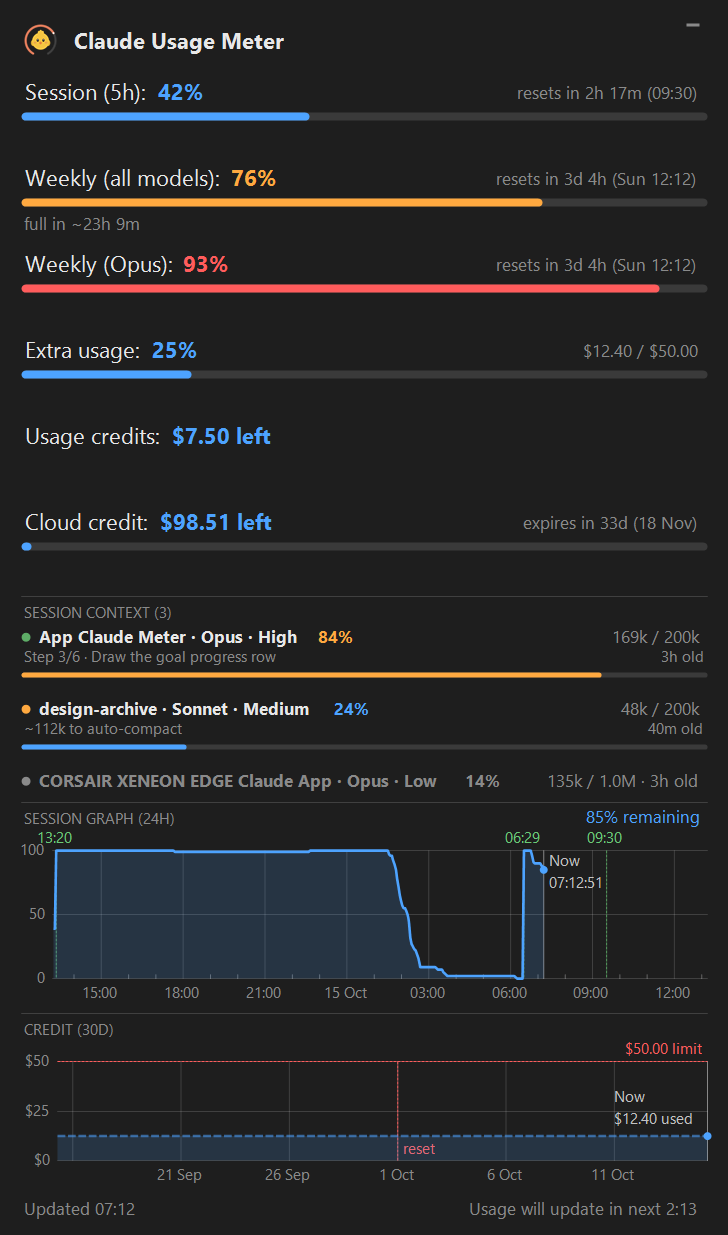
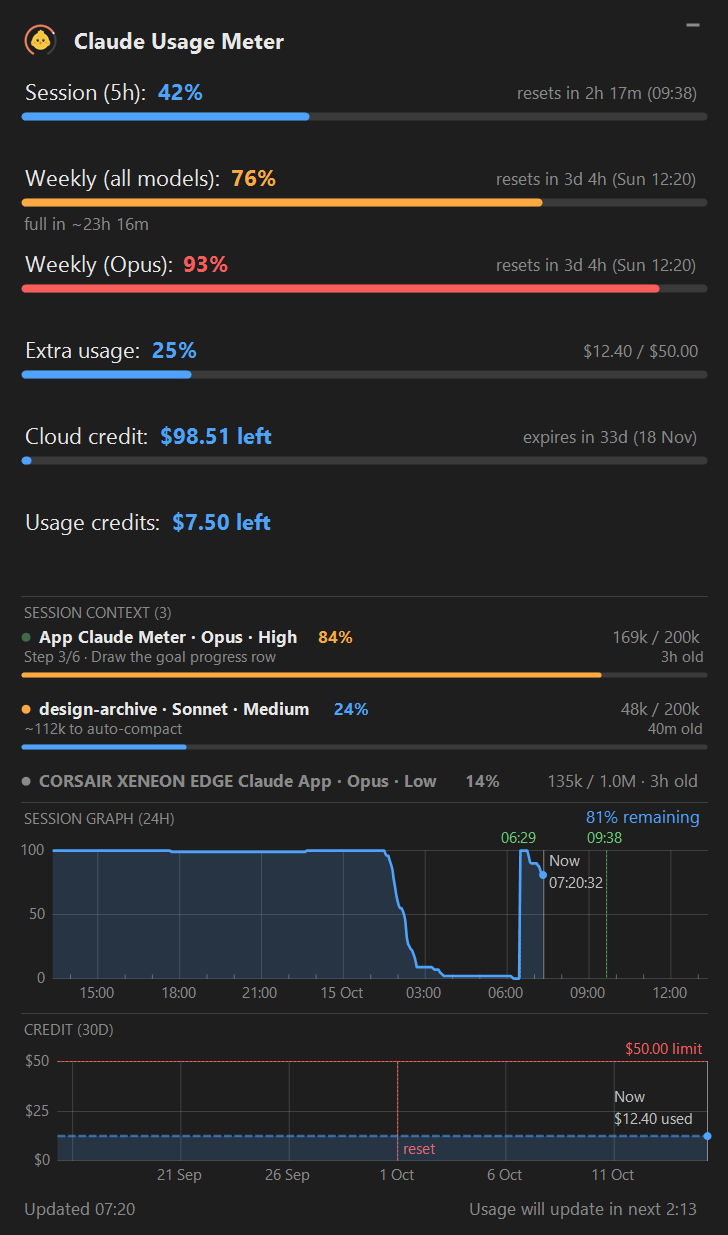
Move the usage credits row below the cloud credit

diff --git a/src/PopupShot.cs b/src/PopupShot.cs
@@ -20,8 +20,8 @@ static class PopupShot
             new UsageWindow("seven_day", "Weekly (all models)", 76, now.AddDays(3).AddHours(5)),
             new UsageWindow("seven_day_opus", "Weekly (Opus)", 93, now.AddDays(3).AddHours(5)),
             new UsageWindow("extra_usage", "Extra usage", 24.8, null, UsedDollars: 12.40, LimitDollars: 50.00),
-            new UsageWindow("credit_balance", "Usage credits", 0, null, UsedDollars: 7.50),
             new UsageWindow("cloud_credit", "Cloud credit", 1.49, now.AddDays(34), UsedDollars: 1.49, LimitDollars: 100),
+            new UsageWindow("credit_balance", "Usage credits", 0, null, UsedDollars: 7.50),
         }, now);
 
         var sessions = new[]

diff --git a/src/UsageClient.cs b/src/UsageClient.cs
@@ -209,7 +209,7 @@ sealed class UsageClient
 
         // Session first, plain weekly second, model-scoped after, wallet last.
         return windows
-            .OrderBy(w => w.Key switch { "five_hour" => 0, "seven_day" => 1, "extra_usage" => 8, "credit_balance" => 9, "cloud_credit" => 10, _ => 2 })
+            .OrderBy(w => w.Key switch { "five_hour" => 0, "seven_day" => 1, "extra_usage" => 8, "cloud_credit" => 9, "credit_balance" => 10, _ => 2 })
             .ThenBy(w => w.Label, StringComparer.Ordinal)
             .ToList();
     }

diff --git a/WORK-LOG-2026-10-15-usage-credits-menu.md b/WORK-LOG-2026-10-15-usage-credits-menu.md
@@ -40,7 +40,7 @@ Exit
 |---|---|---|---|---|
 | 1 | แอปเขียน `usage-raw.json` ใน log folder ทุก poll สำเร็จ | coder | 2 | มีเครื่องมือดีบั๊ก ยังไม่มีฟีเจอร์ใหม่ |
 | 2 | build portable + รัน → main model อ่าน `usage-raw.json` หาฟิลด์ Balance | main | 2 | รู้แล้วว่ามี/ไม่มี Balance |
-| 3 | (ถ้ามี) parse Balance → แถว `Usage credits: $X left` เหนือ Cloud credit + PopupShot sample | coder | 4 | แถวใหม่ทำงาน (ทิ้งได้ถ้าไม่มีฟิลด์) |
+| 3 | (ถ้ามี) parse Balance → แถว `Usage credits: $X left` ใต้ Cloud credit (ย้ายจากเหนือ ตามคุณสมกก 2026-10-15) + PopupShot sample | coder | 4 | แถวใหม่ทำงาน (ทิ้งได้ถ้าไม่มีฟิลด์) |
 | 4 | จัดเมนูคลิกขวาเป็น 4 กลุ่มตามโครงข้างบน | coder | 4 | เมนูใหม่ใช้ได้ |
 | 5 | reviewer ตรวจ diff + build portable + screenshot เมนู/ป๊อปอัปให้คุณสมกกดู | reviewer + main | 3 | พร้อมให้คุณสมกกตรวจด้วยตา |
 | 6 | (รอคุณสมกกอนุมัติ) bump เวอร์ชัน + release | main | 3 | — ต้องถามก่อนเสมอ |

diff --git a/CONTEXT.md b/CONTEXT.md
@@ -61,7 +61,7 @@
 - **Balance / "Usage credits"** — ยอดเงินคงเหลือในกระเป๋า *usage credits* (หน้าเว็บ Settings โชว์
   "Usage credits $0" มุมขวา; ซื้อหรือได้โปรโมชันมา ใช้ก่อนเกินโควตา). **ไม่ใช่** `limit − used`
   ของเพดานรายเดือน. 2026-10-02 ยังไม่พบใน OAuth endpoint; 2026-10-15 ตัดสินว่าจะตรวจซ้ำผ่าน
-  `usage-raw.json` ที่แอป dump ไว้ — ถ้ามีจะแสดงเป็นแถว `Usage credits: $0.00 left` เหนือ Cloud credit
+  `usage-raw.json` ที่แอป dump ไว้ — ถ้ามีจะแสดงเป็นแถว `Usage credits: $0.00 left` ใต้ Cloud credit (ย้ายจากเหนือ ตามคุณสมกก 2026-10-15)
   (โชว์แม้ $0), ถ้าไม่มี **ห้ามเดาตัวเลข**. (ระวังสับสนกับ *Cloud credit* ข้างล่าง)
 - **Cloud credit** — เครดิตที่ได้มาพร้อมแพ็กเกจ (เช่น $100) ใช้กับ **cloud session** อย่างเดียว
   มี **วันหมดอายุ** ใช้หมดหรือหมดอายุแล้วจะกลับไปกินโควตาปกติ. ไม่ใช่ wallet / usage credits

diff --git a/NEXT-SESSION.md b/NEXT-SESSION.md
@@ -12,7 +12,7 @@ status: active
 |------|-----|-----|-------|
 | 1 | แอปเขียน `usage-raw.json` (คำตอบดิบ API) ลง log folder ทุก poll สำเร็จ | main | ✅ |
 | 2 | build portable + รัน → อ่าน `usage-raw.json` หาฟิลด์ Balance | main | ✅ พบ `spend.balance` แต่เป็น null (usage credits ปิดอยู่ `user_disabled: true`) |
-| 3 | (ถ้ามีฟิลด์) แถว `Usage credits: $X left` เหนือ Cloud credit, โชว์แม้ $0 | coder | ✅ key `credit_balance`, `UsageWindow.IsWallet`; ตอนนี้ไม่โชว์เพราะ API ส่ง null |
+| 3 | (ถ้ามีฟิลด์) แถว `Usage credits: $X left` ใต้ Cloud credit (ย้ายจากเหนือ ตามคุณสมกก 2026-10-15), โชว์แม้ $0 | coder | ✅ key `credit_balance`, `UsageWindow.IsWallet`; ตอนนี้ไม่โชว์เพราะ API ส่ง null |
 | 4 | เมนูคลิกขวา 4 กลุ่ม: Popup shows / Window / Tray & alerts / App ("Show limits" → "Limits") | main | ✅ |
 | 5 | reviewer + build portable + screenshot ป๊อปอัป ให้คุณสมกกดู | reviewer/main | ✅ reviewer: ไม่มีบั๊กร้ายแรง แก้ข้อ 1 (CreateDirectory) แล้ว |
 | 6 | release — **รอคุณสมกกสั่งเท่านั้น** | main | ⬜ |
